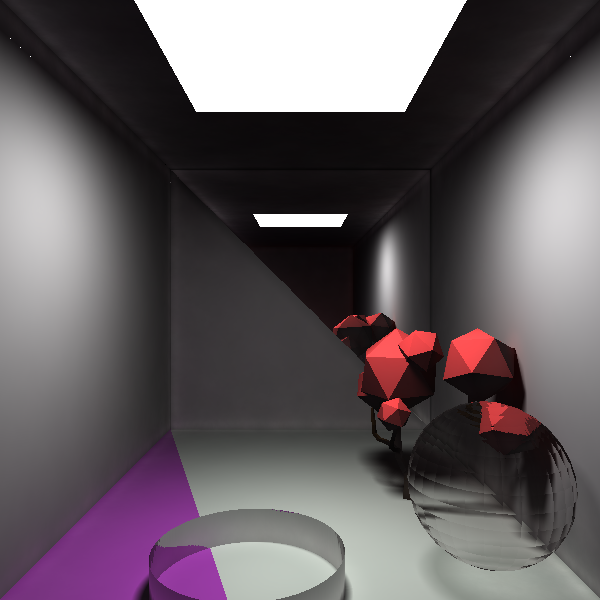
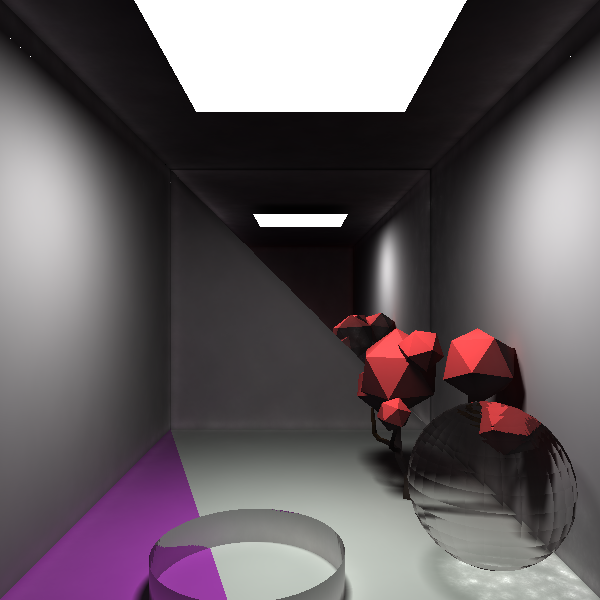
add caustics

Changed region(s): [[0.75, 0.93, 0.99, 1.0]]

diff --git a/PhotonMapping/PhotonMap.cpp b/PhotonMapping/PhotonMap.cpp
@@ -28,7 +28,7 @@ void Photon::loadFromString(std::string photonString)
 
 }
 
-void Photon::trace(glm::vec3 origin, glm::vec3 direction, glm::vec3 power, int depth, float currentRefract, std::shared_ptr<PhotonMap> photonMap)
+void Photon::trace(glm::vec3 origin, glm::vec3 direction, glm::vec3 power, int depth, float currentRefract, std::shared_ptr<PhotonMap> photonMap, bool isCausticMap)
 {
     if (depth > Settings::maxDepth)
     {
@@ -42,24 +42,24 @@ void Photon::trace(glm::vec3 origin, glm::vec3 direction, glm::vec3 power, int d
 
 
     std::shared_ptr<Mesh> mesh = NULL;
-	std::shared_ptr<SquareLight> squareLight = NULL;
+    std::shared_ptr<SquareLight> squareLight = NULL;
 
-	mesh = Scene::getInstance().getMeshWithGeometryID(hit->hit.geomID);
+    mesh = Scene::getInstance().getMeshWithGeometryID(hit->hit.geomID);
     if (mesh == NULL)
     {
         return;
     }
-    
+
     {
         std::shared_ptr<Photon> photon = std::make_shared<Photon>();
-        photon->power = power;  
+        photon->power = power;
         photon->incidentDirection = direction;
         ray->getHit(photon->position);
 
-		glm::vec3 normal = ray->getNormal();
+        glm::vec3 normal = ray->getNormal();
 
-		auto material = mesh->getMaterial();
-    
+        auto material = mesh->getMaterial();
+
         if (material->getOpacity() < 1.0f)
         {
             // La normal se tiene que invertir cuando se esta adentro del objeto refractado
@@ -68,24 +68,24 @@ void Photon::trace(glm::vec3 origin, glm::vec3 direction, glm::vec3 power, int d
             glm::vec3 newDirection = { 0,0,0 };
             if (currentRefract != 1.f)
             {
-                newDirection = glm::refract(direction,- normal, currentRefract / material->getRefraction());
+                newDirection = glm::refract(direction, -normal, currentRefract / material->getRefraction());
             }
             else
             {
                 newDirection = glm::refract(direction, normal, currentRefract / material->getRefraction());
             }
-            Photon::trace(photon->position + newDirection * 0.01f, newDirection, photon->power, depth + 1, material->getRefraction(), photonMap);
-            
-        } 
+            Photon::trace(photon->position + newDirection * 0.01f, newDirection, photon->power, depth + 1, material->getRefraction(), photonMap, isCausticMap);
+
+        }
         else
         {
             ReflectionType type = photon->russianRoulete(material, Random::getRussianRouletteValue());
-			if (type == ReflectionType::Diffuse)
-			{
+            if (type == ReflectionType::Diffuse && !isCausticMap)
+            {
 
                 if (depth != 1)
                 {
-					photonMap->addPhoton(photon);
+                    photonMap->addPhoton(photon);
                 }
 
 
@@ -96,27 +96,26 @@ void Photon::trace(glm::vec3 origin, glm::vec3 direction, glm::vec3 power, int d
                     reflectedDirection = -reflectedDirection;
                 }
 
-                Photon::trace(photon->position + reflectedDirection * 0.01f, reflectedDirection, photon->power * material->getDiffuse(), depth + 1, currentRefract, photonMap);
-			}
-			else if (type == ReflectionType::Specular)
-			{
+                Photon::trace(photon->position + reflectedDirection * 0.01f, reflectedDirection, photon->power * material->getDiffuse(), depth + 1, currentRefract, photonMap, isCausticMap);
+            }
+            else if (type == ReflectionType::Specular)
+            {
                 auto newDirection = glm::reflect(direction, normal);
-                Photon::trace(photon->position + newDirection * 0.01f, newDirection, photon->power, depth + 1, currentRefract, photonMap);
-			}
-			else // Absorb
-			{
+                Photon::trace(photon->position + newDirection * 0.01f, newDirection, photon->power, depth + 1, currentRefract, photonMap, isCausticMap);
+            }
+            else // Absorb
+            {
                 {
                     if (depth != 1)
                     {
                         photonMap->addPhoton(photon);
                     }
                 }
-				return;
-			}
+                return;
+            }
 
-		}
+        }
     }
-   
 }
 
 ReflectionType Photon::russianRoulete(std::shared_ptr<Material> material, float value)
@@ -221,7 +220,7 @@ std::vector<glm::vec3> PhotonMap::getMapBuffer()
         if (camRays[i]->getHit(HitCoordinates))
         {
             float r2;
-            std::vector<int> photonIndices = queryKNearestPhotons(HitCoordinates, 1, r2);
+            std::vector<int> photonIndices = queryKNearestPhotons(HitCoordinates, 15, r2);
             int photonIndex = photonIndices[0];
 
             glm::vec3 totalPower = Settings::backgroundColor;

diff --git a/PhotonMapping/Scene.cpp b/PhotonMapping/Scene.cpp
@@ -145,7 +145,12 @@ std::shared_ptr<PhotonMap> Scene::getGlobalPhotonMap()
 	return global;
 }
 
-void Scene::photonMapping()
+std::shared_ptr<PhotonMap> Scene::getCausticPhotonMap()
+{
+	return caustic;
+}
+
+void Scene::generateGlobalPhotonMap()
 {
 	std::shared_ptr<PhotonMap> photonMap = std::make_shared<PhotonMap>();
 	float globalIntensity = 0;
@@ -157,15 +162,36 @@ void Scene::photonMapping()
 
 	for (auto light : lights)
 	{
-		light->setPhotonQuantity((light->getIntensity() / globalIntensity) * Settings::photonQuantity);
-		light->emitPhotons(photonMap);
-
+		light->setPhotonQuantity((light->getIntensity() / globalIntensity) * Settings::globalPhotonQuantity);
+		light->emitPhotons(photonMap, false);
 	}
 
 	photonMap->build();
 	photonMap->absCount = 0;
 
 	global = photonMap;
+}
+
+void Scene::generateCausticPhotonMap()
+{
+	std::shared_ptr<PhotonMap> photonMap = std::make_shared<PhotonMap>();
+	float globalIntensity = 0;
+
+	for (auto light : lights)
+	{
+		globalIntensity += light->getIntensity();
+	}
+
+	for (auto light : lights)
+	{
+		light->setPhotonQuantity((light->getIntensity() / globalIntensity) * Settings::causticPhotonQuantity);
+		light->emitPhotons(photonMap, true);
+	}
+
+	photonMap->build();
+	photonMap->absCount = 0;
+
+	caustic = photonMap;
 }
 
 std::vector<glm::vec3> Scene::renderScene()
@@ -436,11 +462,28 @@ glm::vec3 Scene::shade(std::shared_ptr<Ray> r, std::shared_ptr<Material> materia
 			{
 				auto photon = global->getPhoton(photonIndex);
 				//float fatt = 10 * pow(glm::length(photon->position - hitPos), 2) / r2; // TODO: Ta bien esto?
-				totalPower += photon->power * glm::abs(glm::dot(normal, photon->incidentDirection)) ; // Incident direction affects photon power contribution
+				totalPower += photon->power * glm::abs(glm::dot(normal, photon->incidentDirection)); // Incident direction affects photon power contribution
 			}
 		}
 
 		float area = (glm::pi<float>() * r2);
+
+		color += totalPower / area;
+
+		// Caustic Photon map
+		photonIndices = caustic->queryKNearestPhotons(hitPos, 10, r2);
+		totalPower = Settings::backgroundColor;
+		if (photonIndices.size() > 0)
+		{
+			for (int photonIndex : photonIndices)
+			{
+				auto photon = caustic->getPhoton(photonIndex);
+				//float fatt = 10 * pow(glm::length(photon->position - hitPos), 2) / r2; // TODO: Ta bien esto?
+				totalPower += photon->power * glm::abs(glm::dot(normal, photon->incidentDirection)); // Incident direction affects photon power contribution
+			}
+		}
+
+		area = (glm::pi<float>() * r2);
 
 		color += totalPower / area;
 	}

diff --git a/PhotonMapping/Light.cpp b/PhotonMapping/Light.cpp
@@ -18,7 +18,7 @@ float Light::getIntensity()
 	return intensity;
 }
 
-void Light::emitPhotons(std::shared_ptr<PhotonMap> photonMap)
+void Light::emitPhotons(std::shared_ptr<PhotonMap> photonMap, bool isCaustic)
 {
 	int emittedPhotons = 0;
 	while (emittedPhotons <= maximumEmittedPhotons)
@@ -26,18 +26,18 @@ void Light::emitPhotons(std::shared_ptr<PhotonMap> photonMap)
 		glm::vec3 direction = getPhotonDirection();
 		glm::vec3 position = getPosition();
 		{
-			Photon::trace(position + direction * 0.01f, direction, color * (intensity / maximumEmittedPhotons), 1, 1, photonMap);
+			Photon::trace(position + direction * 0.01f, direction, color * (intensity / maximumEmittedPhotons), 1, 1, photonMap, isCaustic);
 			emittedPhotons += 1;
 		}
 	}
 }
 
-void Light::emitPhoton(std::shared_ptr<PhotonMap> photonMap)
+void Light::emitPhoton(std::shared_ptr<PhotonMap> photonMap, bool isCaustic)
 {
 
 	glm::vec3 direction = getPhotonDirection();
 	glm::vec3 position = getPosition();
-	Photon::trace(position, direction, color * (intensity / maximumEmittedPhotons), 1, 1, photonMap);
+	Photon::trace(position, direction, color * (intensity / maximumEmittedPhotons), 1, 1, photonMap, isCaustic);
 	
 }
 

diff --git a/PhotonMapping/Scene.h b/PhotonMapping/Scene.h
@@ -35,7 +35,11 @@ public:
 	//bool getMeshWithGeometryID(unsigned id, std::shared_ptr<Mesh> mesh);
 
 	std::shared_ptr<PhotonMap> getGlobalPhotonMap();
-	void photonMapping();
+	void generateGlobalPhotonMap();
+
+	std::shared_ptr<PhotonMap> getCausticPhotonMap();
+	void generateCausticPhotonMap();
+
 	std::vector<glm::vec3> renderScene();
 
 
@@ -50,6 +54,7 @@ private:
 	std::shared_ptr<Camera> camera;
 	std::vector<std::shared_ptr<Mesh>> meshes;
 	std::shared_ptr<PhotonMap> global; 
+	std::shared_ptr<PhotonMap> caustic;
 
 	glm::vec3 trace(std::shared_ptr<Ray> ray, const int& depth, const float& currentRefract);
 	glm::vec3 shade(std::shared_ptr<Ray> r, std::shared_ptr<Material> material, int depth, float currentRefract);

diff --git a/PhotonMapping/main.cpp b/PhotonMapping/main.cpp
@@ -19,10 +19,16 @@ int main()
 {
 	importScene();
 	std::srand(time(0));
+	
+	Scene::getInstance().generateCausticPhotonMap();
+	std::vector<glm::vec3> buffer0 = Scene::getInstance().getCausticPhotonMap()->getMapBuffer();
+	Scene::getInstance().saveImage(buffer0, "causticphotonmapping.png");
 
-	Scene::getInstance().photonMapping();
+	Scene::getInstance().generateGlobalPhotonMap();
 	std::vector<glm::vec3> buffer1 = Scene::getInstance().getGlobalPhotonMap()->getMapBuffer();
 	Scene::getInstance().saveImage(buffer1, "globalphotonmapping.png");
+	
 	std::vector<glm::vec3> buffer2 = Scene::getInstance().renderScene();
 	Scene::getInstance().saveImage(buffer2, "raytracing.png");
+	
 }

diff --git a/PhotonMapping/PhotonMap.h b/PhotonMapping/PhotonMap.h
@@ -26,7 +26,7 @@ struct Photon
 
 	friend std::ostream& operator<<(std::ostream& o, const Photon& a);
 	void loadFromString(std::string photonString);
-	static void trace(glm::vec3 lightPosition, glm::vec3 lightPhotonDirection, glm::vec3 power, int depth, float currentRefract, std::shared_ptr<PhotonMap> photonMap);
+	static void trace(glm::vec3 lightPosition, glm::vec3 lightPhotonDirection, glm::vec3 power, int depth, float currentRefract, std::shared_ptr<PhotonMap> photonMap, bool isCausticMap);
 
 private:
 	static std::vector<std::string> split(const std::string& s, char delim);

diff --git a/PhotonMapping/Light.h b/PhotonMapping/Light.h
@@ -15,8 +15,8 @@ public:
 	Light(float intensity, int maximumEmittedPhotons, glm::vec3 color);
 	void setPhotonQuantity(int quantity);
 	float getIntensity();
-	void emitPhotons(std::shared_ptr<PhotonMap> photonMap);
-	void emitPhoton(std::shared_ptr<PhotonMap> photonMap);
+	void emitPhotons(std::shared_ptr<PhotonMap> photonMap, bool isCaustic);
+	void emitPhoton(std::shared_ptr<PhotonMap> photonMap, bool isCaustic);
 	virtual ~Light();
 	glm::vec3 getColor();
 

diff --git a/PhotonMapping/Settings.cpp b/PhotonMapping/Settings.cpp
@@ -6,4 +6,5 @@ int Settings::maxDepth = 10;
 glm::vec3 Settings::backgroundColor = { 0, 0, 0 };
 int Settings::fov = 90;
 int Settings::smoothness = 8;
-int Settings::photonQuantity = 500000;
+int Settings::globalPhotonQuantity = 500000;
+int Settings::causticPhotonQuantity = 100000;

diff --git a/PhotonMapping/Settings.h b/PhotonMapping/Settings.h
@@ -13,5 +13,6 @@ public:
 	static int fov;
 	static int antialiasing;
 	static int smoothness;
-	static int photonQuantity;
+	static int globalPhotonQuantity;
+	static int causticPhotonQuantity;
 };
